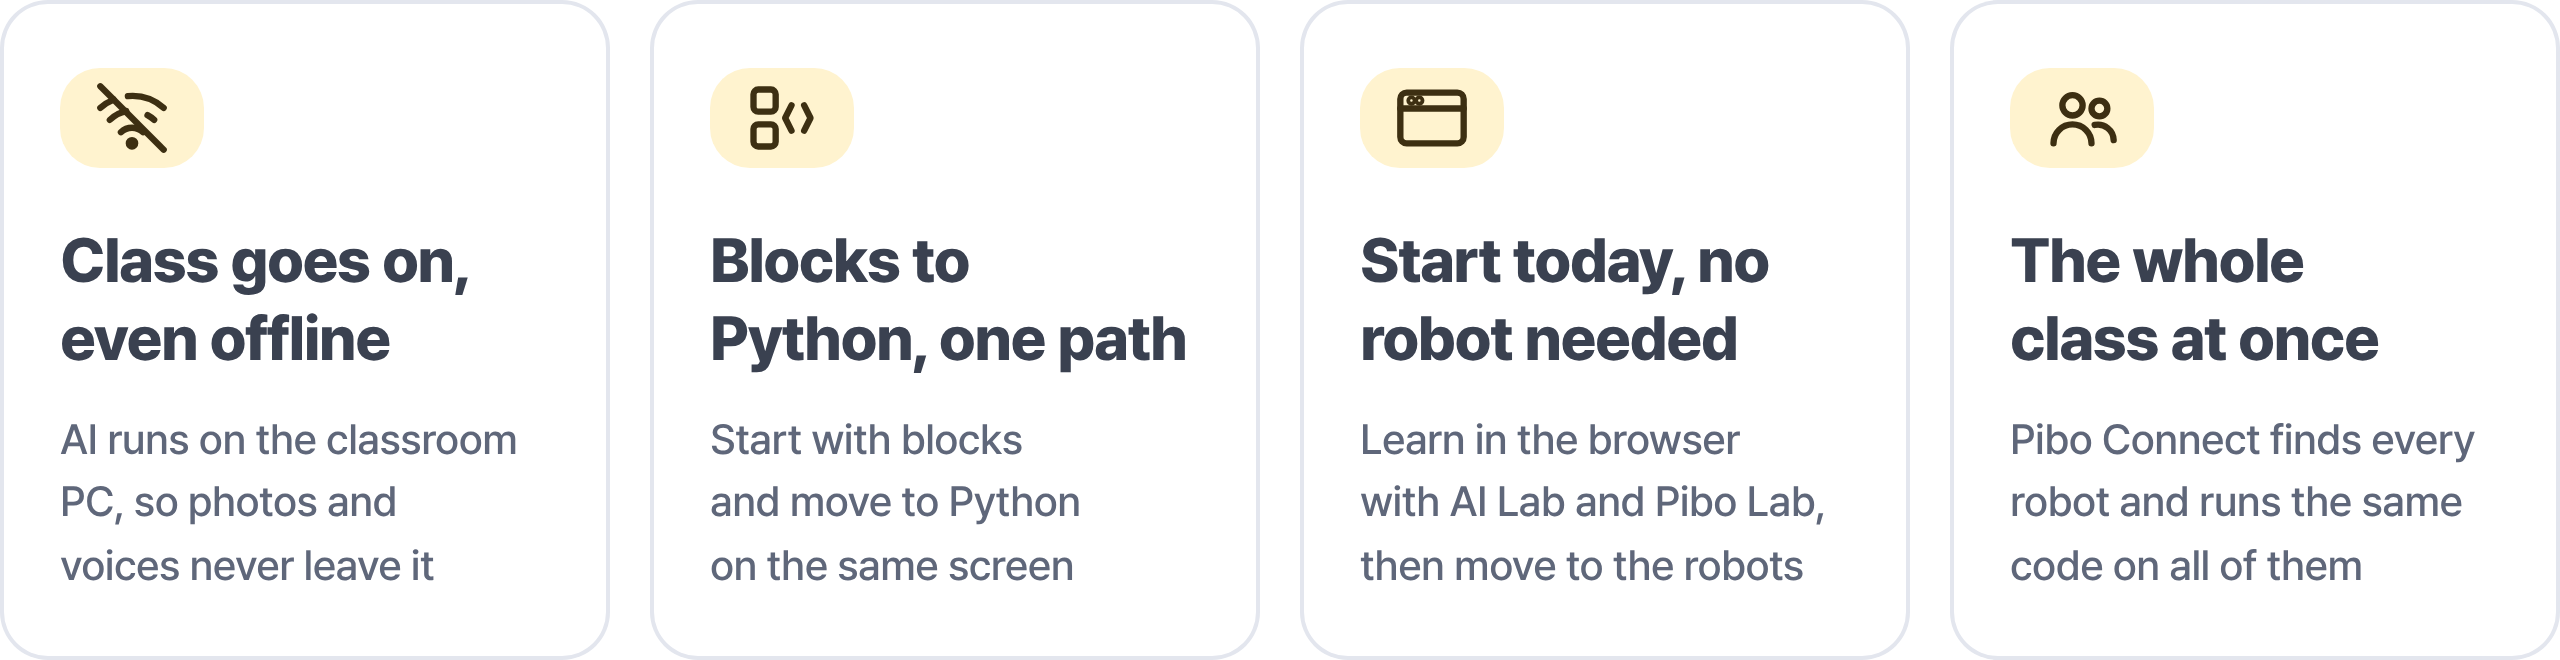
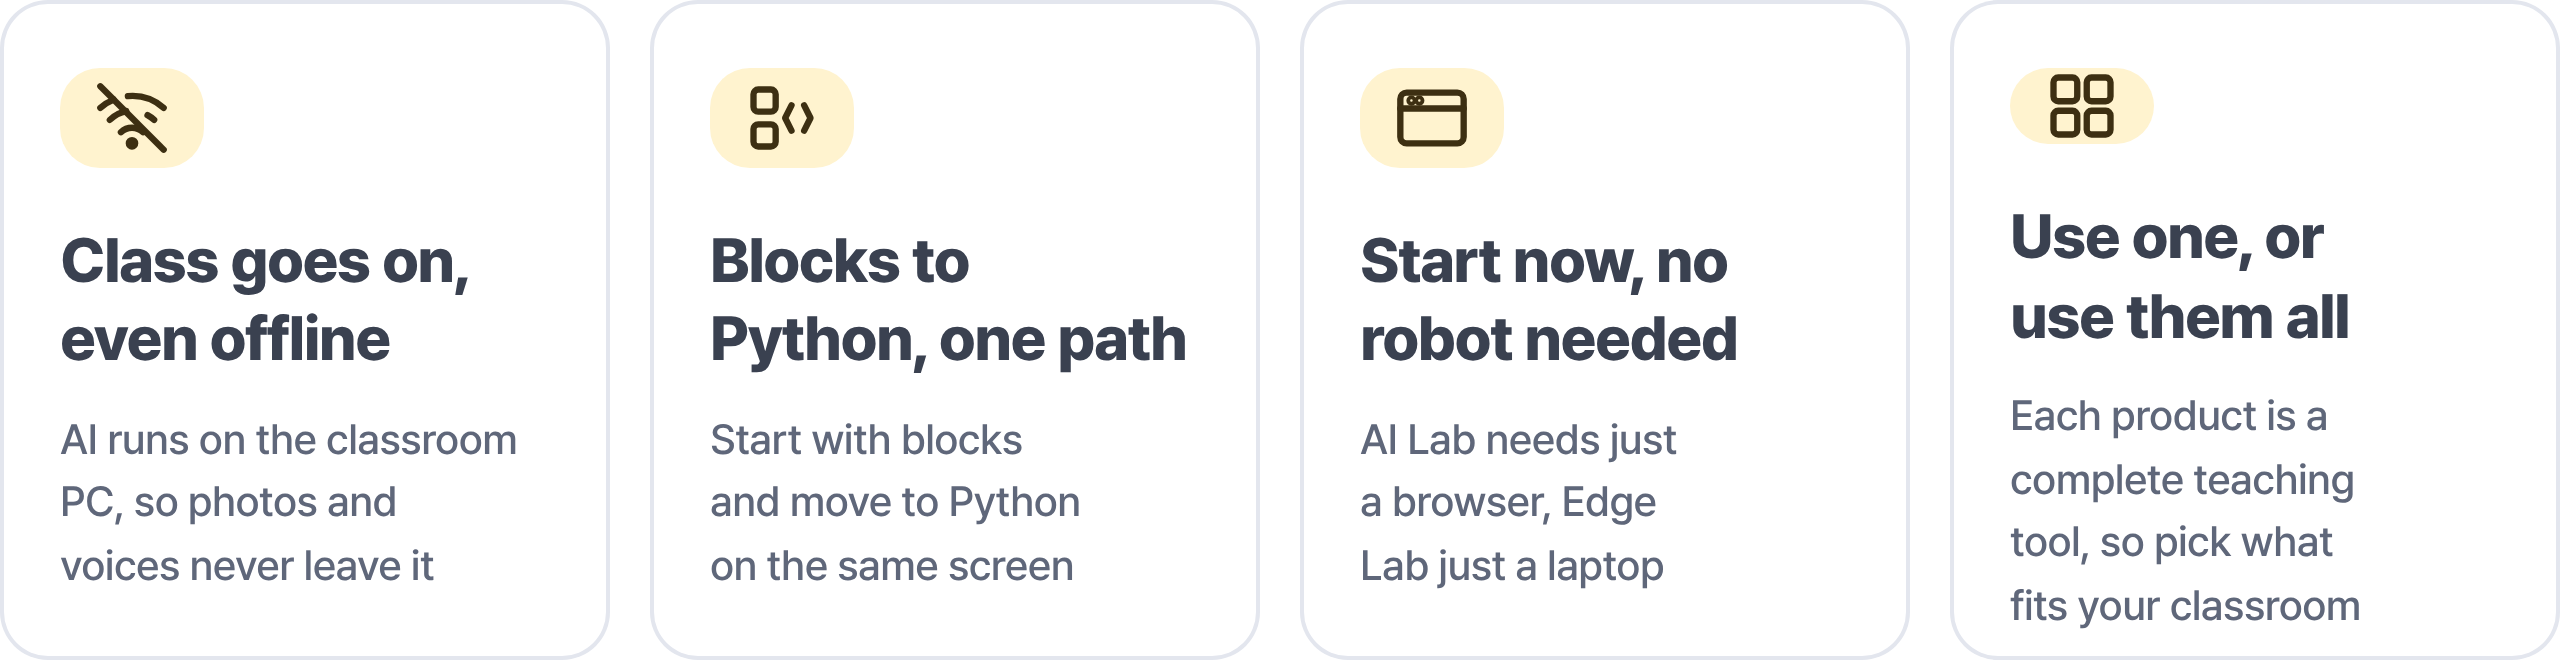
README: 제품을 독립된 도구로 정리 — 학습 흐름 대신 비교표
- '이렇게 배웁니다'(한 줄 흐름)와 라인업 삭제 → '무엇으로, 무엇을 배우나요' 비교표 (제품 × 배우는 것)
- 소개·가치 카드: 로봇으로 이어 가는 흐름 대신 '따로 써도, 함께 써도'
- EasyDetect: 로봇 전용 표현 삭제, 만든 모델을 PC·인텔 NPU·라즈베리파이·piBo·piBrain 어디서든
- 로봇 설명: 카메라·센서로 AI 체험·가르치기, 블록·파이썬 코딩

Claude-Session: https://claude.ai/code/session_0189PbxufaKqbAwDGNT7CFCK

diff --git a/README.md b/README.md
@@ -12,25 +12,21 @@
 <h3 align="center">만지고, 가르치고, 코딩하며 배우는 AI</h3>
 
 <p align="center">
-  서큘러스의 교육 브랜드 <b>THE MAKER</b>는 AI 로봇 <b>파이보·파이브레인</b>과 <b>AI 교육 소프트웨어</b>로<br>
-  체험에서 시작해 블록 코딩과 파이썬을 거쳐, 직접 만든 AI가 로봇을 움직이기까지 한 흐름으로 가르칩니다.
+  서큘러스의 교육 브랜드 <b>THE MAKER</b>는 AI 로봇 <b>piBo · piBrain</b>과 AI 교육 소프트웨어 <b>Edge Lab · AI Lab · EasyDetect</b>를 만듭니다.<br>
+  하나하나가 완결된 수업 도구라, 교실 환경과 수업 목표에 맞게 골라 쓰면 됩니다.
 </p>
 
 ## 왜 THE MAKER인가요
 
 <img src="data/why-ko.png" width="100%" alt="인터넷이 끊겨도 수업은 계속 · 블록에서 파이썬까지 한 흐름 · 로봇이 없어도 오늘 시작 · 교실 전체를 한 번에">
 
-## 교실 준비물에 맞춰 고르세요
+## 무엇으로, 무엇을 배우나요
 
-<img src="data/lineup-ko.png" width="100%" alt="AI 로봇: 파이보·파이브레인 · 노트북만: Edge Lab · 웹 브라우저만: AI Lab · 노트북 → 로봇: EasyDetect">
-
-## 이렇게 배웁니다
-
-<img src="data/flow-ko.png" width="100%" alt="1 체험 → 2 가르치기 → 3 코딩 → 4 로봇으로 완성">
+<img src="data/matrix-ko.png" width="100%" alt="piBo·piBrain(AI 로봇), Edge Lab(노트북만), AI Lab(웹 브라우저만), EasyDetect(노트북)으로 배울 수 있는 것 비교">
 
 ## 파이보 · 파이브레인 — 로봇으로 배우는 AI
 
-움직이는 휴머노이드 **파이보**, 화면과 버튼이 달린 AI 보드 **파이브레인**. 수업에서 만든 AI를 로봇에 실어 직접 움직여 봅니다.
+움직이는 휴머노이드 **파이보**, 화면과 버튼이 달린 AI 보드 **파이브레인**. 로봇의 카메라와 센서로 AI를 체험하고 가르치며, 블록과 파이썬으로 직접 코딩합니다.
 
 <p align="center">
   <img src="data/card-pibo.png" width="49%" alt="파이보 (piBo) — 움직이는 휴머노이드 AI 로봇">
@@ -102,18 +98,18 @@
   </tr>
 </table>
 
-## EasyDetect — 내 사진으로 만든 AI를 로봇에
+## EasyDetect — 내 사진으로 만드는 사물 인식 AI
 
 <table>
   <tr>
     <td width="56%" valign="middle"><img src="data/feat-easydetect-ko.png" width="100%" alt="EasyDetect"></td>
     <td width="44%" valign="middle">
-      <p>노트북에서 <b>학습하고 시험한 뒤</b>, 파일 하나로 <b>파이보·파이브레인</b>에 옮겨 실행합니다.</p>
+      <p>사진에 상자를 그려 노트북에서 <b>학습하고 시험한 뒤</b>, 만든 모델을 <b>어디서든</b> 씁니다.</p>
       <ul>
         <li><b>3가지 AI</b> — 사물 인식(상자) · 윤곽 분할 · 자세(키포인트)</li>
         <li><b>학습</b> — 노트북 CPU로 사진 100~300장을 10~15분 안에</li>
         <li><b>추론</b> — 사진·영상·웹캠으로 바로 시험</li>
-        <li><b>로봇에 적용</b> — ONNX 파일 하나로 파이보·파이브레인에서 실행</li>
+        <li><b>어디서든 실행</b> — ONNX·OpenVINO 파일로 PC, 인텔 NPU, 라즈베리파이, piBo·piBrain에서</li>
       </ul>
       <p><a href="https://github.com/themakerrobot/easydetect-lab/releases/latest"><b>다운로드</b></a> · <a href="https://github.com/themakerrobot/easydetect-lab/releases">릴리스 노트</a> · <a href="https://themakerrobot.github.io/easydetect-lab/">가이드</a> · <a href="https://themakerrobot.github.io/easydetect/try.html">웹 체험</a></p>
     </td>
@@ -152,25 +148,21 @@ OS 설치 이미지와 사용 가이드는 [공유 폴더](https://circulusworks
 <h3 align="center">Learn AI by touching, teaching and coding it</h3>
 
 <p align="center">
-  <b>THE MAKER</b>, the education brand of Circulus, teaches AI in one path with the AI robots <b>piBo</b> and <b>piBrain</b><br>
-  and our <b>AI education software</b> — from hands-on play, through blocks and Python, to your own AI moving a robot.
+  <b>THE MAKER</b>, the education brand of Circulus, makes the AI robots <b>piBo · piBrain</b> and the AI education software <b>Edge Lab · AI Lab · EasyDetect</b>.<br>
+  Each is a complete teaching tool, so pick what fits your classroom and your lesson.
 </p>
 
 ### Why THE MAKER
 
 <img src="data/why-en.png" width="100%" alt="Class goes on, even offline · Blocks to Python, one path · Start today, no robot needed · The whole class at once">
 
-### Pick what fits your classroom
+### What you need, what you learn
 
-<img src="data/lineup-en.png" width="100%" alt="AI robots: piBo · piBrain · A laptop: Edge Lab · A web browser: AI Lab · Laptop → robot: EasyDetect">
-
-### How students learn
-
-<img src="data/flow-en.png" width="100%" alt="1 Try → 2 Teach → 3 Code → 4 Build">
+<img src="data/matrix-en.png" width="100%" alt="What you can learn with piBo·piBrain (AI robots), Edge Lab (a laptop), AI Lab (a web browser) and EasyDetect (a laptop)">
 
 ### piBo · piBrain — learn AI with robots
 
-**piBo**, a humanoid robot that moves, and **piBrain**, an AI board with a screen and buttons. Students put the AI they made onto the robot and watch it move.
+**piBo**, a humanoid robot that moves, and **piBrain**, an AI board with a screen and buttons. Students try and teach AI with the robot's camera and sensors, and code it with blocks and Python.
 
 #### piBo Maker · piBrain Maker — built into the robot
 
@@ -237,18 +229,18 @@ Prepare lessons with an on-screen piBo, then run the whole classroom of robots f
   </tr>
 </table>
 
-### EasyDetect — your own AI, on the robot
+### EasyDetect — object detection AI from your own photos
 
 <table>
   <tr>
     <td width="56%" valign="middle"><img src="data/feat-easydetect-en.png" width="100%" alt="EasyDetect"></td>
     <td width="44%" valign="middle">
-      <p><b>Train and test</b> on a laptop, then move the model to <b>piBo or piBrain</b> as a single file.</p>
+      <p>Draw boxes on your photos, <b>train and test</b> on a laptop, then use the model <b>anywhere</b>.</p>
       <ul>
         <li><b>Three kinds of AI</b> — object detection, segmentation, pose (keypoints)</li>
         <li><b>Train</b> — 100–300 photos in 10–15 minutes on a laptop CPU</li>
         <li><b>Run</b> — test on photos, videos or a webcam right away</li>
-        <li><b>On the robot</b> — one ONNX file runs on piBo and piBrain</li>
+        <li><b>Runs anywhere</b> — ONNX or OpenVINO files for a PC, an Intel NPU, a Raspberry Pi, piBo and piBrain</li>
       </ul>
       <p><a href="https://github.com/themakerrobot/easydetect-lab/releases/latest"><b>Download</b></a> · <a href="https://github.com/themakerrobot/easydetect-lab/releases">Release notes</a> · <a href="https://themakerrobot.github.io/easydetect-lab/">Guide</a> · <a href="https://themakerrobot.github.io/easydetect/try.html">Try on the web</a></p>
     </td>
